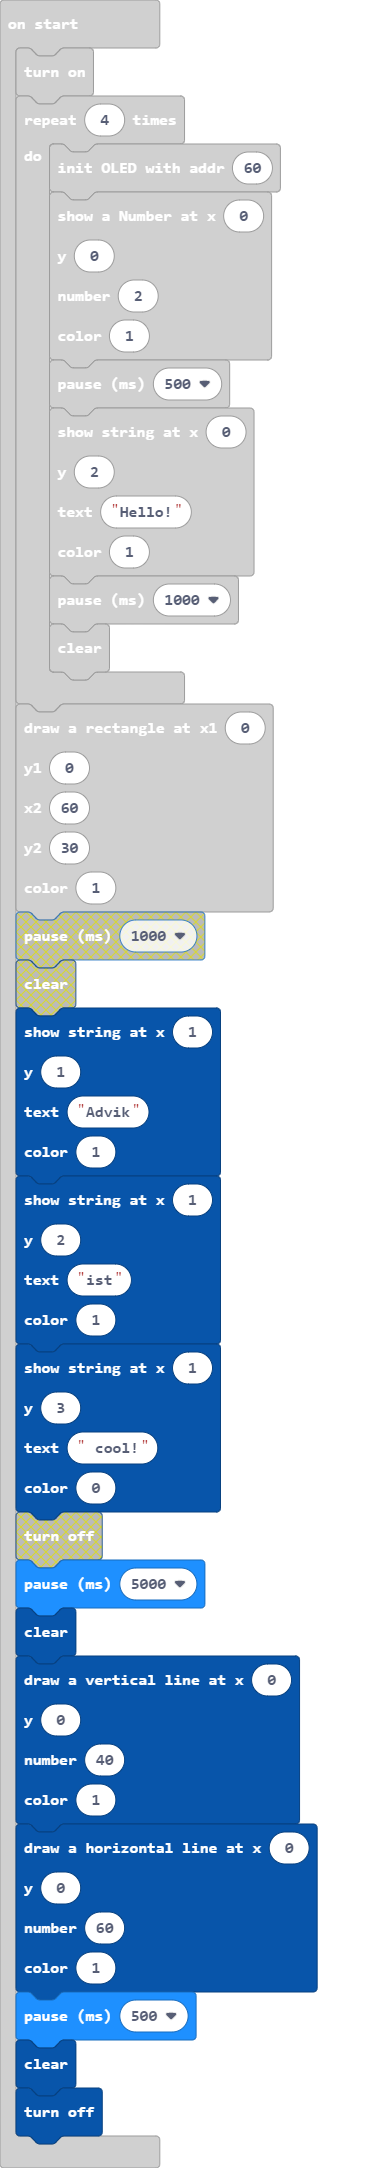
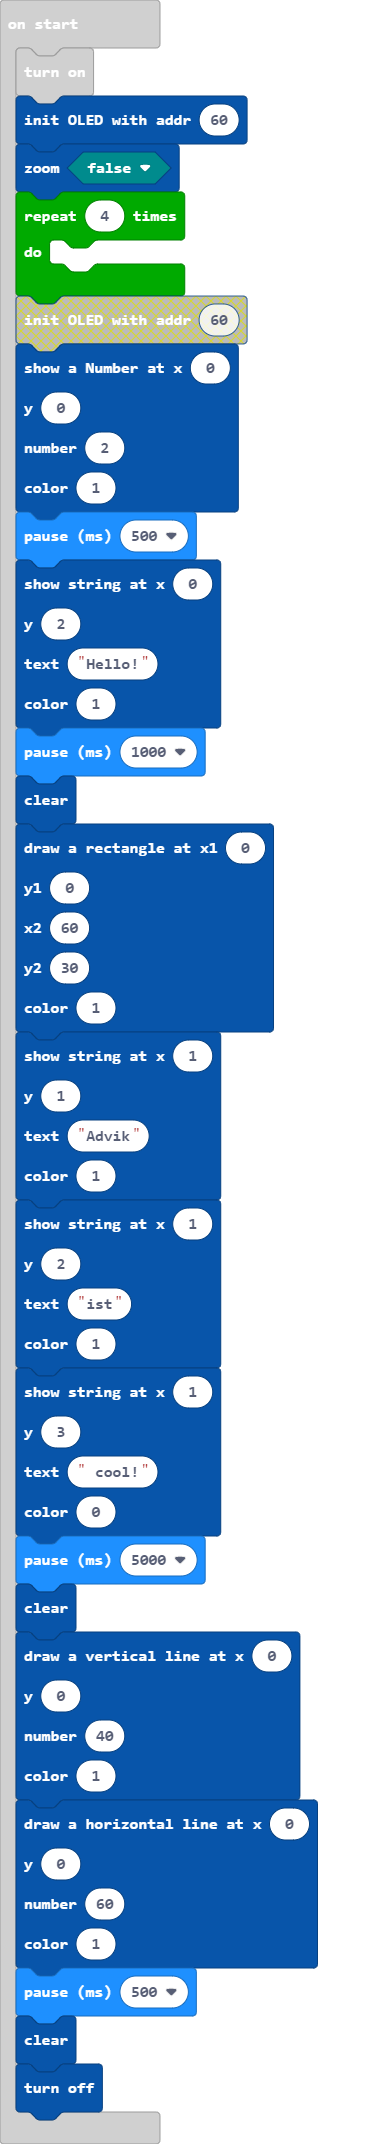
Added Zoom : false

diff --git a/main.ts b/main.ts
@@ -1,6 +1,7 @@
 OLED12864_I2C.on()
+OLED12864_I2C.init(60)
+OLED12864_I2C.zoom(false)
 for (let index = 0; index < 4; index++) {
-    OLED12864_I2C.init(60)
     OLED12864_I2C.showNumber(
     0,
     0,
